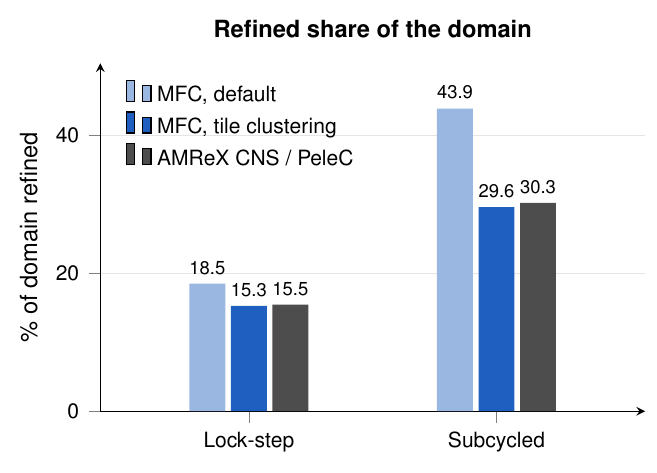
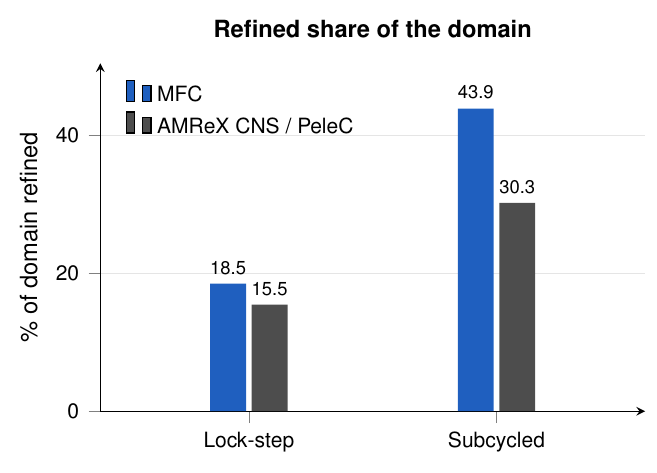
AMR results: known issues (quartic blowup in dense IB cloud, tiles memory, regression drift); coverage without tile bar

diff --git a/misc/amr-results/pgf/coverage.tex b/misc/amr-results/pgf/coverage.tex
@@ -6,8 +6,7 @@
   title={Refined share of the domain}, ylabel={\% of domain refined}, xtick={0,1}, xticklabels={Lock-step,Subcycled},
   xmin=-0.6, xmax=1.6, legend pos=north west, nodes near coords, nodes near coords style={font=\scriptsize,
   /pgf/number format/fixed, /pgf/number format/precision=1}, enlarge y limits={upper, value=0.15}]
-  \addplot[fill=mfc!45, draw=none] table[x=i, y=MFC] {data/coverage.dat}; \addlegendentry{MFC, default}
-  \addplot[fill=mfc, draw=none] table[x=i, y=tileclustering] {data/coverage.dat}; \addlegendentry{MFC, tile clustering}
+  \addplot[fill=mfc, draw=none] table[x=i, y=MFC] {data/coverage.dat}; \addlegendentry{MFC}
   \addplot[fill=amrex, draw=none] table[x=i, y=AMReXCNS] {data/coverage.dat}; \addlegendentry{AMReX CNS / PeleC}
 \end{axis}
 \end{tikzpicture}

diff --git a/misc/amr-results/README.md b/misc/amr-results/README.md
@@ -81,3 +81,17 @@ Data: `data/fair_metrics.csv`, `categories_long.csv`, `waste_budget.csv`, `water
   on, 80 GPUs) at t = 0.49, 1.50, 3.09, 5.80; `curtain64_movie_f_*.jpg`: movie frames.
 - `spheres8_{flow,cut,hero}_{400,900,1700}.jpg`, `spheres8_movie_f_*.jpg`: the 8-sphere run.
 - `curtain_test_midplane_slice.jpg`: mid-plane slice of the 22-sphere curtain test (8 GPUs).
+
+## Known issues (open)
+- **Quartic prolongation blowup in a dense IB cloud.** Sphere-cloud movie case (297 fixed spheres, Mach 2.5, 128 GPUs; case
+  `/lustre/orion/cfd154/scratch/sbryngelson/mfc-movie/case.py`, branch `spike/amr-movie`): with `amr_prolong = 2` the run goes
+  NaN at steps 363-386, 1-3 steps after a regrid, at a refined-block corner or the cloud edge. Not fixed by regrid every 4,
+  a 4-cell clear ring, dt x0.75, inviscid, or the older commit d8f901dd; `amr_prolong = 1` from the step-300 restart runs
+  cleanly (used for the movie). Likely cause: the unlimited 5-point quartic stencil straddles IB solid/ghost cells or a
+  shock and undershoots. Proposed fix: fall back to linear where the stencil touches IB cells or a strong gradient, plus a
+  positivity check on prolonged values. Reproducer: the step-300 restart.
+- **Tile clustering with subcycling runs out of GPU memory** (store slots sized for full blocks); lock-step tiles are
+  2-2.7x slower with no coverage gain on the blast lattice. Fix: per-block slot sizing.
+- **`3D -> synthetic_turbulence` regression test** fails on `up/mega` (7273d602) at round-off level (rel 3.3e-9 vs 1e-10
+  tolerance); to revisit when the branch is brought up to date with master.
+- Level 2 cannot span multiple level-1 parents; no AMR for `model_eqns = 1`; restart on a different rank count segfaults.
